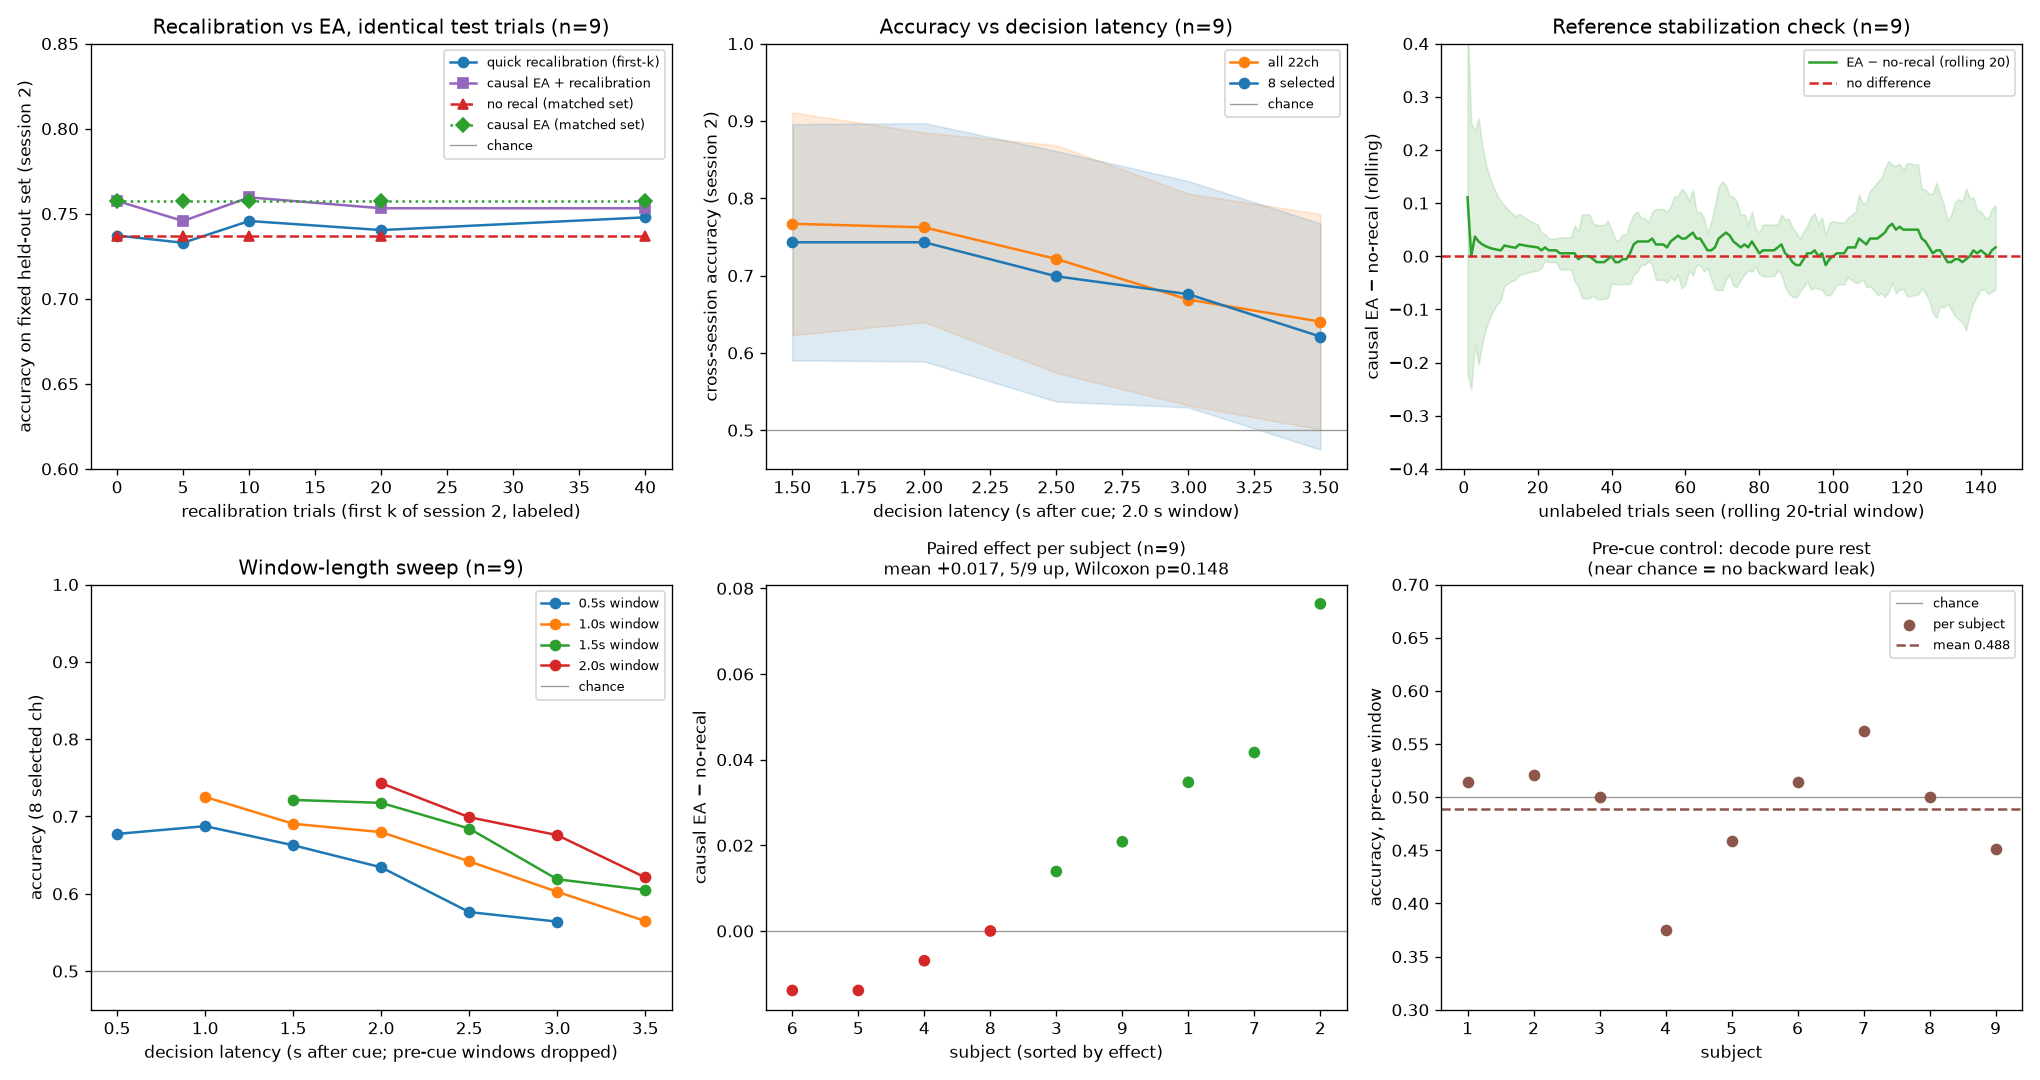
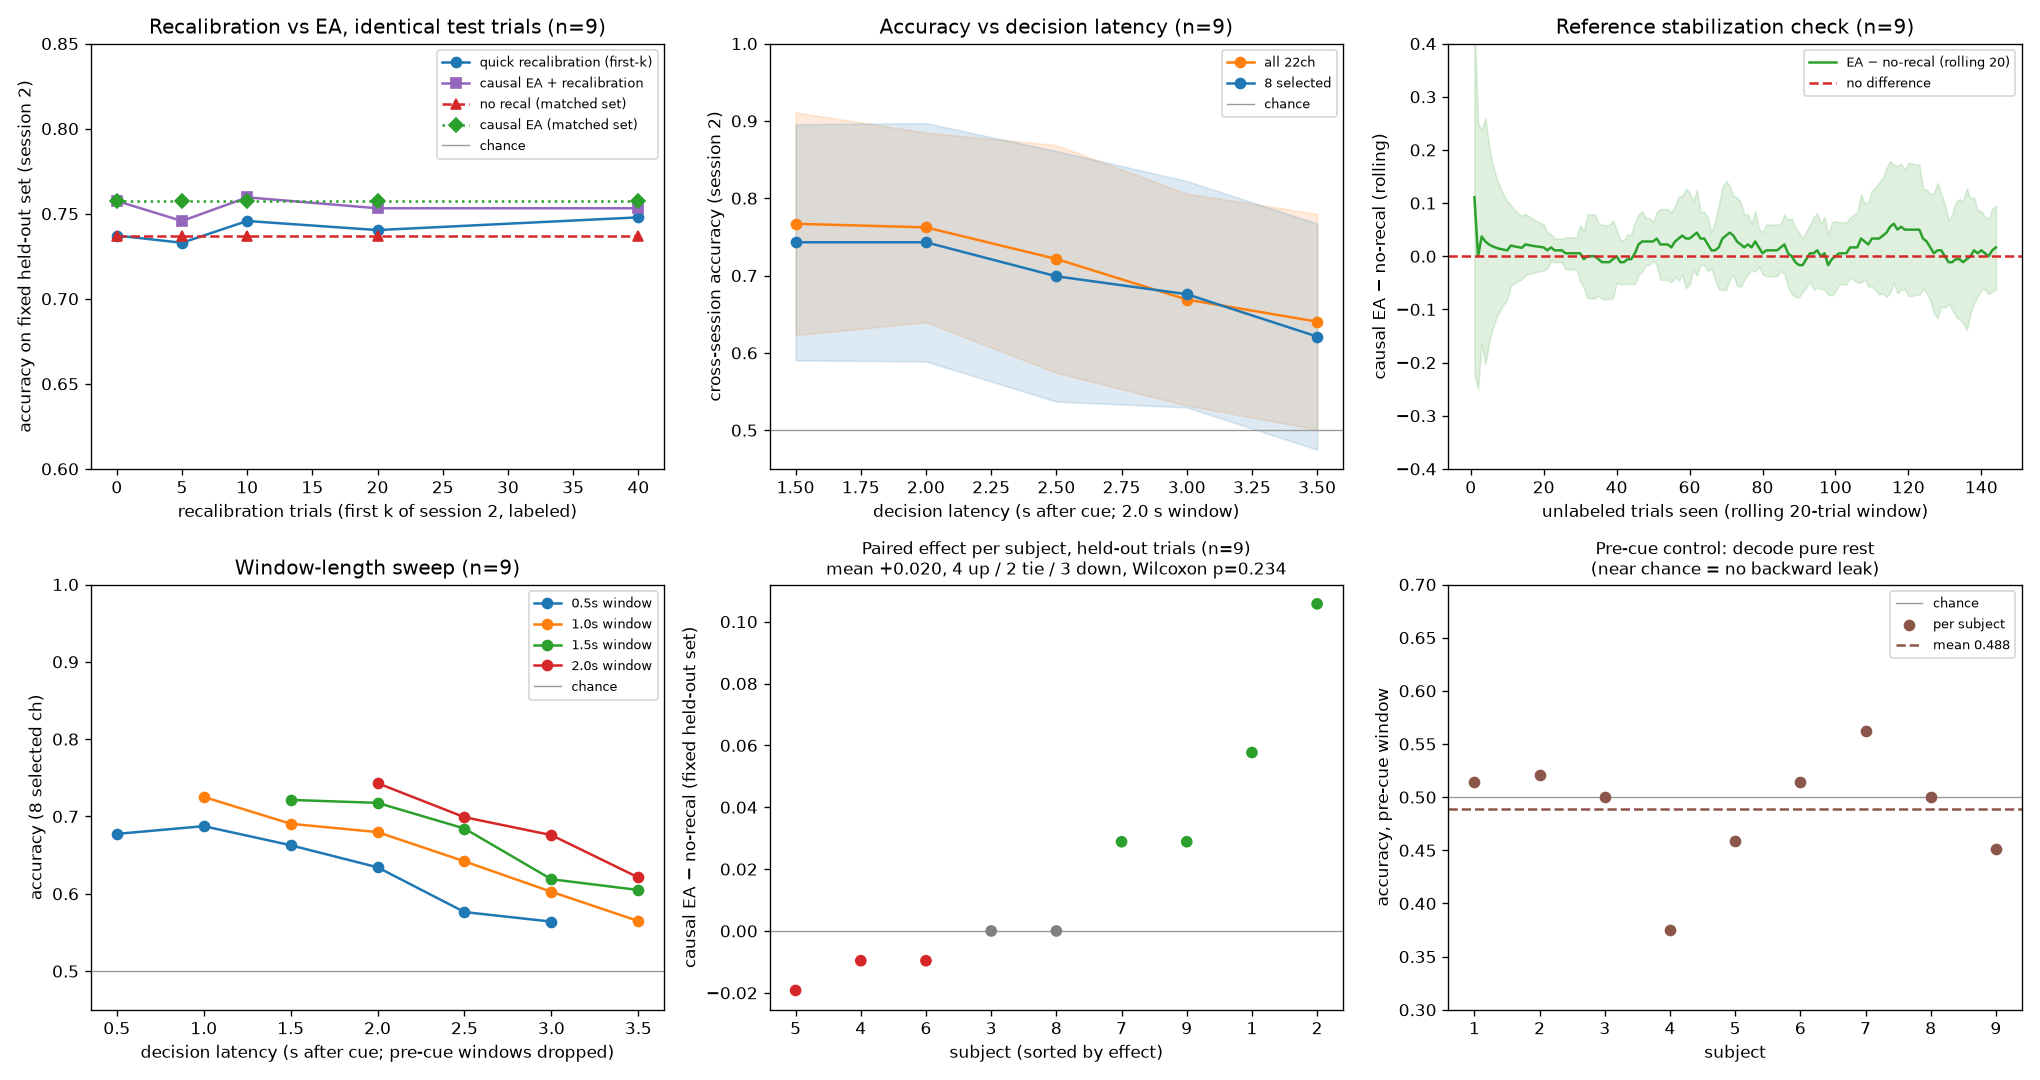
Part 2: paired stats on fixed held-out set, soften EA claims
Recompute EA vs no-recal paired Wilcoxon on trials 41-144 (4 up/2 tie/3 down, +0.020, p=0.234); full-stream stats kept and labeled. Panel 5 uses the held-out set. README: 'beats' -> 'comparable to / nominally higher than', decode latency 0.6 ms.

diff --git a/online/print_readme_numbers.py b/online/print_readme_numbers.py
@@ -51,20 +51,38 @@ def main():
     print(f"# = trials {scored_from}..end ({scored} trials), identical across all conditions\n")
     print(f"{'condition':42s} mean acc (n={n})")
     print("-" * 60)
+    nr_m, ea_m, rec, rec_ea = col("no_recal_matched"), col("ea_matched"), col("recal"), col("recal_ea")
+    print(f"{'no recalibration':42s} {nr_m[0]:.3f}")
+    print(f"{'causal EA (running ref, 0 labels)':42s} {ea_m[0]:.3f}")
+    print(f"\n# full stream (all trials; latency analyses):")
     print(f"{'no recalibration':42s} {_mean(subs,'recalibration','no_recal'):.3f}")
     print(f"{'causal EA (running ref, 0 labels)':42s} {_mean(subs,'recalibration','ea'):.3f}")
     print(f"{'EA transductive (contrast only)':42s} {_mean(subs,'recalibration','ea_transductive'):.3f}")
-    nr_m, ea_m, rec, rec_ea = col("no_recal_matched"), col("ea_matched"), col("recal"), col("recal_ea")
+    print(f"\n# quick recalibration on the fixed held-out set:")
     for i, k in enumerate(sizes):
         print(f"{'  quick recalibration, k=%-3d' % k:42s} {rec[i]:.3f}   "
               f"(no-recal {nr_m[i]:.3f} | EA {ea_m[i]:.3f} | EA+recal {rec_ea[i]:.3f}, same trials)")
     print(f"\ndecode latency: {_mean(subs,'decode_ms_per_window_end_to_end'):.3f} ms/window end-to-end")
     print(f"pre-cue control: {_mean(subs,'recalibration','no_recal') and np.mean([r['precue_control_acc'] for r in subs]):.3f} (chance = no leak)")
 
+    # Paired test on the FIXED held-out set (the same trials as the table above).
+    # The matched columns are identical at every k (same trials, no labels), so k index 0.
+    from scipy.stats import wilcoxon
+    ea_s = np.array([r["recalibration"]["ea_matched"] for r in subs])
+    nr_s = np.array([r["recalibration"]["no_recal_matched"] for r in subs])
+    assert np.allclose(ea_s, ea_s[:, :1]) and np.allclose(nr_s, nr_s[:, :1]), \
+        "matched EA/no-recal differ across k -- check scoring"
+    md = np.round(ea_s[:, 0] - nr_s[:, 0], 10)
+    mup, mtie, mdown = int((md > 0).sum()), int((md == 0).sum()), int((md < 0).sum())
+    mp = wilcoxon(md).pvalue  # zero_method='wilcox' drops ties
+    print(f"\npaired causal EA − no-recal, fixed held-out set: {mup} up, {mtie} tie, {mdown} down; "
+          f"mean {md.mean():+.3f}, Wilcoxon on {len(md) - mtie} non-tied, p={mp:.3f}")
+    print("  per subject: " + ", ".join(f"S{r['subject']} {d:+.3f}" for r, d in zip(subs, md)))
+
     if stats:
         diffs = np.array(stats["per_subject_diff"])
         up = int((diffs > 0).sum()); tie = int((diffs == 0).sum()); down = int((diffs < 0).sum())
-        print(f"\npaired causal EA − no-recal: {up} up, {tie} tie, {down} down; "
+        print(f"paired causal EA − no-recal, full stream: {up} up, {tie} tie, {down} down; "
               f"mean {stats['mean_diff']:+.3f}, Wilcoxon on {stats['n'] - tie} non-tied, "
               f"p={stats['wilcoxon_p']:.3f}")
 

diff --git a/online/plot_online.py b/online/plot_online.py
@@ -6,7 +6,8 @@ Five panels (2x3 grid, last cell blank):
   3 causal EA running accuracy vs unlabeled trials seen
   4 window-length sweep: accuracy vs latency for several window lengths (pre-cue
     windows dropped), which separates "more data" from "pre-cue contamination"
-  5 paired dot plot: causal EA minus no-recal per subject, with the Wilcoxon p
+  5 paired dot plot: causal EA minus no-recal per subject on the fixed held-out
+    set (same trials as panel 1), with the Wilcoxon p
 
 The JSON is a list of per-subject records, optionally followed by one trailing
 {"paired_stats_ea_vs_norecal": ...} record; subject records are the ones with a
@@ -119,18 +120,22 @@ def main():
     ax4.set_title(f"Window-length sweep (n={n})")
     ax4.legend(fontsize=8); ax4.set_ylim(0.45, 1.0)
 
-    # 5 --- paired dot plot: causal EA minus no-recal per subject ---
-    diffs = ea - no_recal
+    # 5 --- paired dot plot: causal EA minus no-recal per subject, on the SAME
+    #        fixed held-out set as panel 1 (matched columns are identical at every k).
+    from scipy.stats import wilcoxon
+    diffs = np.round(ea_matched[:, 0] - nr_matched[:, 0], 10)
     order = np.argsort(diffs)
     ax5.axhline(0, ls="-", color="0.6", lw=0.8)
-    ax5.scatter(range(n), diffs[order], color=["C2" if d > 0 else "C3" for d in diffs[order]], zorder=3)
+    colors = ["C2" if d > 0 else ("0.5" if d == 0 else "C3") for d in diffs[order]]
+    ax5.scatter(range(n), diffs[order], color=colors, zorder=3)
     ax5.set_xticks(range(n))
     ax5.set_xticklabels([results[i]["subject"] for i in order])
     ax5.set_xlabel("subject (sorted by effect)")
-    ax5.set_ylabel("causal EA − no-recal")
-    title = f"Paired effect per subject (n={n})"
-    if stats and stats.get("wilcoxon_p") is not None:
-        title += f"\nmean {stats['mean_diff']:+.3f}, {stats['n_improve']}/{stats['n']} up, Wilcoxon p={stats['wilcoxon_p']:.3f}"
+    ax5.set_ylabel("causal EA − no-recal (fixed held-out set)")
+    up, tie, down = int((diffs > 0).sum()), int((diffs == 0).sum()), int((diffs < 0).sum())
+    p = wilcoxon(diffs).pvalue
+    title = (f"Paired effect per subject, held-out trials (n={n})\n"
+             f"mean {diffs.mean():+.3f}, {up} up / {tie} tie / {down} down, Wilcoxon p={p:.3f}")
     ax5.set_title(title, fontsize=10)
 
     # 6 --- pre-cue control: decode a 0.5 s window of pure rest (must be ~chance) ---

diff --git a/README.md b/README.md
@@ -11,7 +11,7 @@ Two classes only. BCI IV 2a has four (left hand, right hand, feet, tongue); ever
 
 ## Headline result
 
-**TL;DR (n=9, causal, fixed held-out session-2 trials): free unsupervised Euclidean alignment reaches 0.757 vs 0.737 with no recalibration — above a 40-trial labeled warm-up (0.748), for zero labels. A small mean gain with mixed per-subject direction (p = 0.148): suggestive, not established.**
+**TL;DR (n=9, causal, fixed held-out session-2 trials): free unsupervised Euclidean alignment reaches 0.757 vs 0.737 with no recalibration — comparable to, and nominally higher than, a 40-trial labeled warm-up (0.748), for zero labels. A small mean gain with mixed per-subject direction (4 up / 2 tie / 3 down, p = 0.234): not established.**
 
 ![Accuracy vs recalibration trials and vs decision latency](results/online_recalibration.png)
 
@@ -83,9 +83,9 @@ Cross-subject means (9 subjects, 8 channels selected on session 1, left/right tw
 | quick recalibration, 40 labeled trials | 0.748 |
 | causal EA + recalibration, 40 labeled trials | 0.753 |
 
-(The full-stream causal-EA number, scored on all 144 trials for the latency/paired analyses, is 0.760; on the fixed 104-trial set it is 0.757. The two differ only by which trials are scored.)
+(The full-stream causal-EA number, scored on all 144 trials for the latency analyses, is 0.760; on the fixed 104-trial set it is 0.757. The two differ only by which trials are scored. The paired test below uses the fixed 104-trial set.)
 
-**The fair comparison is cleaner than the quick-look suggested:** on identical trials, label-free causal EA (0.757) beats quick recalibration at *every* budget tested, including 40 labeled trials (0.748). So "alignment can substitute for calibration trials" holds up when scored apples-to-apples — the labeled warm-up does not catch EA even at k=40.
+**On identical trials, label-free causal EA (0.757) is comparable to, and nominally higher than, quick recalibration at every budget tested,** including 40 labeled trials (0.748). By the time scoring starts at trial 41, EA has already seen 40 unlabeled trials. The margins are small and not significant, so the fair reading is that alignment can roughly stand in for a short labeled warm-up, not that it outperforms one.
 
 Decode latency: **0.6 ms per window, end to end** — covariance from the raw window samples, the channel-subset slice, CSP log-power, and the logistic-regression call. It excludes the one-off per-session band-pass filter (done once up front, not per window). Either way the decoder is far faster than real time, so latency is set by how much post-cue EEG you wait for, not by compute.
 
@@ -99,13 +99,13 @@ The 8–30 Hz band-pass is applied once per session with a **minimum-phase (caus
 
 **Findings:**
 
-- **Free, online, unsupervised transfer beats a labeled warm-up, by a small margin.** On the identical held-out set, causal Euclidean alignment reaches 0.757 with **zero labels**, above quick recalibration at every budget including 40 labeled trials (0.748) and above no-recalibration (0.737). But the per-subject effect is mixed: causal EA minus no-recal is **5 up, 1 tie, 3 down; Wilcoxon on the 8 non-tied subjects, mean +0.017, p = 0.148** — so the honest reading is "causal EA gives a small mean gain (0.737 → 0.757) with mixed per-subject direction, suggestive but not established at n = 9." It is not a proven win; it is evidence that alignment can stand in for a short labeled warm-up. Combining EA with a warm-up (causal EA + 40 trials, 0.753) adds nothing over EA alone.
+- **Free, online, unsupervised transfer is comparable to a labeled warm-up.** On the fixed held-out set (trials 41–144), causal Euclidean alignment reaches 0.757 with **zero labels**, nominally higher than quick recalibration at every budget including 40 labeled trials (0.748) and than no-recalibration (0.737). EA has seen 40 unlabeled trials by the time scoring starts. The per-subject effect is mixed: on the same held-out trials, causal EA minus no-recal is **4 up, 2 tie, 3 down; Wilcoxon on the 7 non-tied subjects, mean +0.020, p = 0.234** — so the honest reading is "causal EA gives a small mean gain (0.737 → 0.757) with mixed per-subject direction, not established at n = 9." It is not a proven win; it is evidence that alignment can roughly stand in for a short labeled warm-up. Combining EA with a warm-up (causal EA + 40 trials, 0.753) adds nothing over EA alone.
 - **Longer windows decode better; earlier decisions are still better — and this survives the causal filter.** The window-length sweep (0.5 / 1.0 / 1.5 / 2.0 s) shows a longer window beats a shorter one at every latency, and within any fixed window length accuracy falls as the window ends later. The cross-subject latency curve peaks at the earliest clean window (1.5 s, 0.743) and declines monotonically to 0.621 at 3.5 s. This was the reviewer's main worry: that the non-causal filter was faking the early advantage by smearing later imagery back into early windows. **It is not the filter** — the effect is the same under the causal filter — and it is **not leakage** — the pre-cue control is at chance. So the drop with latency is a real property of these trials (the discriminative imagery is early), with cue-locked visual/eye activity the one explanation the data here cannot separate from genuine early imagery. The 8 selected channels track all 22 closely across the latency curve.
 - **A short window at short latency can dip into pre-cue baseline.** With a 2.0 s window, a decision at 1.5 s latency would start 0.5 s *before* the cue and mix in resting EEG; the sweep drops such windows, so every plotted point is a clean post-cue decision.
-- **Online decoding is real-time.** 0.48 ms end-to-end per window.
+- **Online decoding is real-time.** 0.6 ms end-to-end per window.
 - **Same hard-subject split as Part 1.** Subjects 3/8/9 decode ~0.89–0.95; subjects 2/5/6 sit near chance (~0.51–0.59), and none of the methods tried rescues them — consistent with the deep-model result that the limit is signal, not method.
 
-Honest limits: one dataset (BCI IV 2a), 9 subjects, two classes. The EA gain over no-recalibration is consistent in direction but not significant at this sample size, and weaker under the causal filter than under zero-phase. **Causal EA's small edge does not come from the reference "locking in" over the stream.** Figure panel 3 plots the **rolling 20-trial difference** between causal EA and no-recalibration on the same trials: if the reference were stabilizing, that difference would rise as more unlabeled trials arrive. Instead it hovers just above zero (≈ +0.02) flat across the whole session — so EA runs a roughly constant small step ahead, and the earlier cumulative-accuracy "peak near trial 18" was trial difficulty, not the reference stabilizing. A 2.0 s window also cannot report latencies whose window would start before the cue (dropped in the sweep).
+Honest limits: one dataset (BCI IV 2a), 9 subjects, two classes. The EA gain over no-recalibration is small, mixed in direction across subjects, and not significant at this sample size, and weaker under the causal filter than under zero-phase. **Causal EA's small edge does not come from the reference "locking in" over the stream.** Figure panel 3 plots the **rolling 20-trial difference** between causal EA and no-recalibration on the same trials: if the reference were stabilizing, that difference would rise as more unlabeled trials arrive. Instead it hovers just above zero (≈ +0.02) flat across the whole session — so EA runs a roughly constant small step ahead, and the earlier cumulative-accuracy "peak near trial 18" was trial difficulty, not the reference stabilizing. A 2.0 s window also cannot report latencies whose window would start before the cue (dropped in the sweep).
 
 ### Non-causal vs causal (what the filter change cost)
 
@@ -113,11 +113,11 @@ The online sweeps originally used MNE's default zero-phase (non-causal) band-pas
 
 | metric | non-causal (zero-phase) | causal (minimum-phase) |
 |---|---|---|
-| no recalibration | 0.728 | 0.743 |
-| causal EA (headline, full stream) | 0.754 | 0.760 |
+| no recalibration (full stream) | 0.728 | 0.743 |
+| causal EA (full stream) | 0.754 | 0.760 |
 | accuracy at 1.5 s latency (earliest) | 0.744 | 0.743 |
 | accuracy at 3.5 s latency (latest) | 0.633 | 0.621 |
-| EA − no-recal, paired | 7 up / 1 tie / 1 down, +0.026, p = 0.078 | 5 up / 1 tie / 3 down, +0.017, p = 0.148 |
+| EA − no-recal, paired (full stream) | 7 up / 1 tie / 1 down, +0.026, p = 0.078 | 5 up / 1 tie / 3 down, +0.017, p = 0.148 |
 | pre-cue control | not run | 0.488 (chance, no leak) |
 
 The earliest-latency advantage (1.5 s > 3.5 s) is present under both filters, so it is a property of the data, not the filter. The full non-causal result set is archived at [`docs/online_results_noncausal.json`](docs/online_results_noncausal.json); the live `results/online_results.json` is the causal one.
